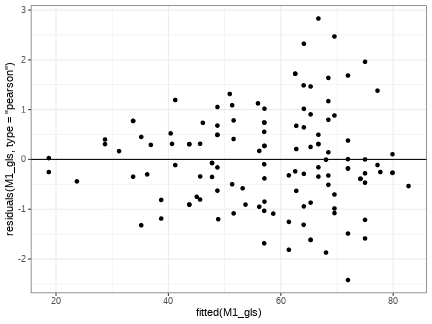
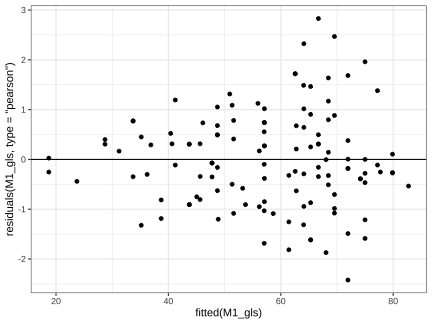
изменила код и презентацию 16

diff --git a/16_variance_structure.html b/16_variance_structure.html
@@ -3,24 +3,24 @@
   <head>
     <title>Моделирование структуры дисперсии в смешанных моделях</title>
     <meta charset="utf-8" />
-    <meta name="author" content="Марина Варфоломеева, Вадим Хайтов, Анастасия Лянгузова" />
-    <script src="libs/header-attrs-2.27/header-attrs.js"></script>
-    <link href="libs/remark-css-0.0.1/ninjutsu.css" rel="stylesheet" />
-    <link href="libs/tile-view-0.2.6/tile-view.css" rel="stylesheet" />
-    <script src="libs/tile-view-0.2.6/tile-view.js"></script>
-    <script src="libs/fabric-4.3.1/fabric.min.js"></script>
-    <link href="libs/xaringanExtra-scribble-0.0.1/scribble.css" rel="stylesheet" />
-    <script src="libs/xaringanExtra-scribble-0.0.1/scribble.js"></script>
+    <meta name="author" content="Марина Варфоломеева, Вадим Хайтов, Анастасия Лянгузова, Валентина Домашкина" />
+    <script src="site_libs/header-attrs-2.29/header-attrs.js"></script>
+    <link href="site_libs/remark-css-0.0.1/ninjutsu.css" rel="stylesheet" />
+    <link href="site_libs/tile-view-0.2.6/tile-view.css" rel="stylesheet" />
+    <script src="site_libs/tile-view-0.2.6/tile-view.js"></script>
+    <script src="site_libs/fabric-4.3.1/fabric.min.js"></script>
+    <link href="site_libs/xaringanExtra-scribble-0.0.1/scribble.css" rel="stylesheet" />
+    <script src="site_libs/xaringanExtra-scribble-0.0.1/scribble.js"></script>
     <script>document.addEventListener('DOMContentLoaded', function() { window.xeScribble = new Scribble({"pen_color":["#FF0000"],"pen_size":3,"eraser_size":30,"palette":[]}) })</script>
-    <script src="libs/mark.js-8.11.1/mark.min.js"></script>
-    <link href="libs/xaringanExtra-search-0.0.1/search.css" rel="stylesheet" />
-    <script src="libs/xaringanExtra-search-0.0.1/search.js"></script>
+    <script src="site_libs/mark.js-8.11.1/mark.min.js"></script>
+    <link href="site_libs/xaringanExtra-search-0.0.1/search.css" rel="stylesheet" />
+    <script src="site_libs/xaringanExtra-search-0.0.1/search.js"></script>
     <script>window.addEventListener('load', function() { window.xeSearch = new RemarkSearch({"position":"bottom-left","caseSensitive":false,"showIcon":false,"autoSearch":true}) })</script>
-    <script src="libs/xaringanExtra-progressBar-0.0.1/progress-bar.js"></script>
-    <script src="libs/freezeframe-5.0.2/freezeframe.min.js"></script>
-    <script src="libs/xaringanExtra-freezeframe-0.0.1/freezeframe-init.js"></script>
+    <script src="site_libs/xaringanExtra-progressBar-0.0.1/progress-bar.js"></script>
+    <script src="site_libs/freezeframe-5.0.2/freezeframe.min.js"></script>
+    <script src="site_libs/xaringanExtra-freezeframe-0.0.1/freezeframe-init.js"></script>
     <script id="xaringanExtra-freezeframe-options" type="application/json">{"selector":"img[src$=\"gif\"]","trigger":"click","overlay":false,"responsive":true,"warnings":true}</script>
-    <link href="libs/tachyons-4.12.0/tachyons.min.css" rel="stylesheet" />
+    <link href="site_libs/tachyons-4.12.0/tachyons.min.css" rel="stylesheet" />
     <!-- https://github.com/fnaufel/xaringan-smartify-->
     <script
     			  src="https://code.jquery.com/jquery-3.4.1.slim.min.js"
@@ -43,10 +43,10 @@ class: middle, left, inverse, title-slide
 ## Линейные модели…
 ]
 .author[
-### Марина Варфоломеева, Вадим Хайтов, Анастасия Лянгузова
+### Марина Варфоломеева, Вадим Хайтов, Анастасия Лянгузова, Валентина Домашкина
 ]
 .date[
-### Осень 2024
+### Осень 2025
 ]
 
 ---
@@ -209,7 +209,7 @@ ggplot(fly, aes(x = activity, y = thorax)) + geom_boxplot()
 
 Модель:
 
-`$$Longivity_{i} = \beta_0 + \beta_1 Thorax_{i} + \beta_{2} I_{isolated} + \beta_{3} I_{one} + \beta_{4} I_{many} + \beta_{5} I_{low} + \\ + Interactions + \varepsilon_{i}$$`
+`$$Longevity_{i} = \beta_0 + \beta_1 Thorax_{i} + \beta_{2} I_{isolated} + \beta_{3} I_{one} + \beta_{4} I_{many} + \beta_{5} I_{low} + \\ + Interactions + \varepsilon_{i}$$`
 
 `$$\varepsilon_{i} \sim N(0, \sigma^2)$$`
 
@@ -220,7 +220,7 @@ ggplot(fly, aes(x = activity, y = thorax)) + geom_boxplot()
 
 ``` r
 mod_formula &lt;- longevity ~ thorax*activity
-M1 &lt;- lm(mod_formula, data = fruitfly)
+M1 &lt;- lm(mod_formula, data = fly)
 
 library(car)
 Anova(M1)
@@ -246,7 +246,8 @@ Signif. codes:  0 '***' 0.001 '**' 0.01 '*' 0.05 '.' 0.1 ' ' 1
 
 ``` r
 M1_diagn &lt;- fortify(M1)
-ggplot(M1_diagn, aes(x = .fitted, y = .stdresid)) + geom_point() + geom_hline(yintercept = 0)
+ggplot(M1_diagn, aes(x = .fitted, y = .stdresid)) + geom_point() + 
+  geom_hline(yintercept = 0)
 ```
 
 ![](16_variance_structure_files/figure-html/unnamed-chunk-7-1.png)&lt;!-- --&gt;
@@ -276,7 +277,8 @@ eps_2 &lt;- rnorm(N, 0, h(x))
 y_2 &lt;- b_0 + b_1*x + eps_2
 dat2 &lt;- data.frame(x, y_1, y_2)
 
-p_values &lt;- data.frame(p_no_heter = rep(NA, 1000), p_heter = NA)
+p_values &lt;- data.frame(p_no_heter = rep(NA, 1000), 
+                       p_heter = NA)
 
 for(i in 1:1000){
   df &lt;- dat2[sample(1:1000, 10), ]
@@ -426,7 +428,7 @@ class: middle, center, inverse
 
 ``` r
 library(nlme) 
-M1_gls &lt;- gls(mod_formula, data = fruitfly)
+M1_gls &lt;- gls(mod_formula, data = fly)
 
 Pl_resid_M1_gls &lt;- qplot(x = fitted(M1_gls), y = residuals(M1_gls, type = "pearson")) +
   geom_hline(yintercept = 0)
@@ -766,7 +768,7 @@ M7_gls$modelStruct
 ```
 varStruct  parameters:
   const   power 
--15.867   1.987 
+-15.843   1.987 
 ```
 
 ``` r
@@ -776,9 +778,9 @@ M8_gls$modelStruct
 ```
 varStruct  parameters:
     const.many const.isolated      const.one      const.low     const.high 
-     -17.24327       -0.03472        0.04990        0.16843       -0.96133 
+     -17.21749       -0.03472        0.04990        0.16843       -0.96134 
     power.many power.isolated      power.one      power.low     power.high 
-      -0.56206        3.89001        2.70688        8.26979        3.08716 
+      -0.56206        3.89001        2.70688        8.26973        3.08715 
 ```
 
 ---
@@ -939,7 +941,7 @@ class: middle, center, inverse
 
 --
 
-Для упрощения финальной модели надо изменять фиксированную часть, REML не годится!
+Для упрощения финальной модели надо изменять фиксированную часть: REML не годится!
 
 
 ``` r
@@ -1054,7 +1056,7 @@ head(bw, 14)
 ]
 
 .pull-right[
-Три группы крыс, содержались при разных условиях кормления 64 дня. Каждую крысу взвешивали с определенной периодичностью. 
+Три группы крыс содержали при разных условиях кормления 64 дня. Каждую крысу взвешивали с определённой периодичностью. 
 
 Всего было изучено 16 особей.  
 
@@ -1062,7 +1064,7 @@ head(bw, 14)
 Задача:    
 
 
-Построить модель, которая дала бы ответ на вопрос, изменяется ли характер роста крыс в зависимости от типа диеты?
+Построить модель, отвечающую на вопрос: изменяется ли характер роста крыс в зависимости от типа диеты?
 
 .tiny[
 пример из книги Pinheiro and Bates, 2000 
@@ -1316,9 +1318,9 @@ ggplot(MyData, aes(x = Time, y = Predicted,  color = Diet)) +
 <script src="https://remarkjs.com/downloads/remark-latest.min.js"></script>
 <script src="assets/macros.js"></script>
 <script>var slideshow = remark.create({
-"highlightStyle": "googlecode",
-"highlightLines": true,
-"countIncrementalSlides": false
+  "highlightStyle": "googlecode",
+  "highlightLines": true,
+  "countIncrementalSlides": false
 });
 if (window.HTMLWidgets) slideshow.on('afterShowSlide', function (slide) {
   window.dispatchEvent(new Event('resize'));

diff --git a/assets/xaringan-themer.css b/assets/xaringan-themer.css
@@ -15,7 +15,7 @@
  *    - xaringan wiki: https://github.com/yihui/xaringan/wiki
  *    - remarkjs wiki: https://github.com/gnab/remark/wiki
  *
- *  Version: 0.4.3
+ *  Version: 0.4.4
  *
  * ------------------------------------------------------- */
 @import url(https://fonts.googleapis.com/css?family=Nunito:400,400i&subset=latin,cyrillic&display=swap);
